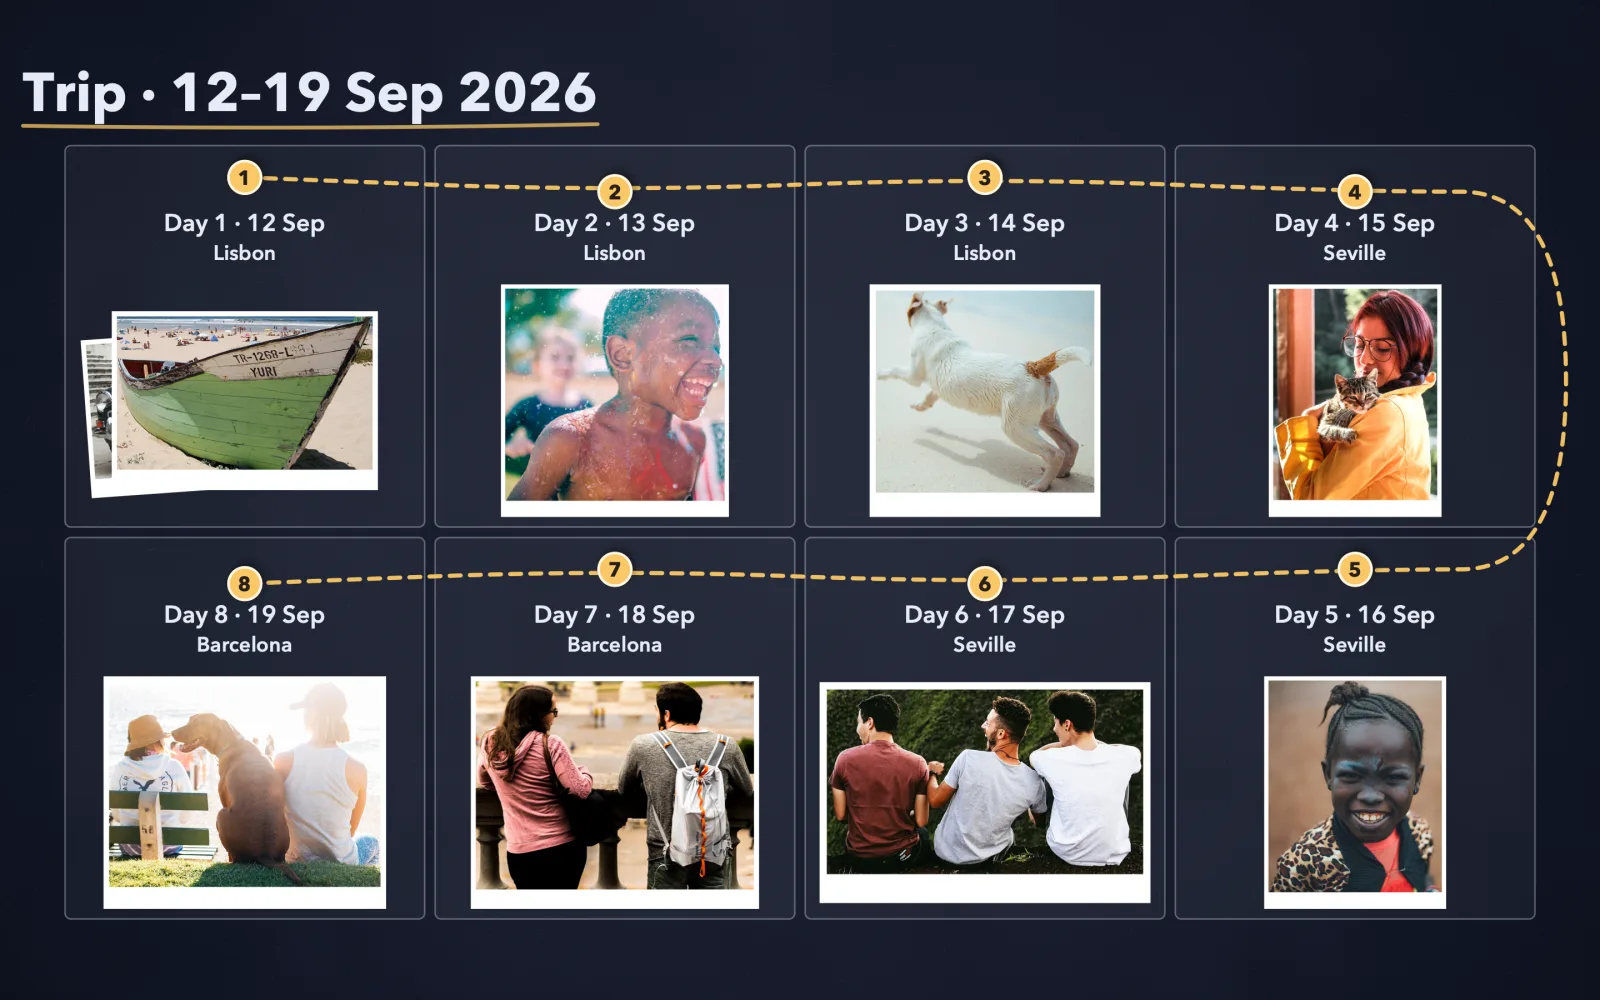
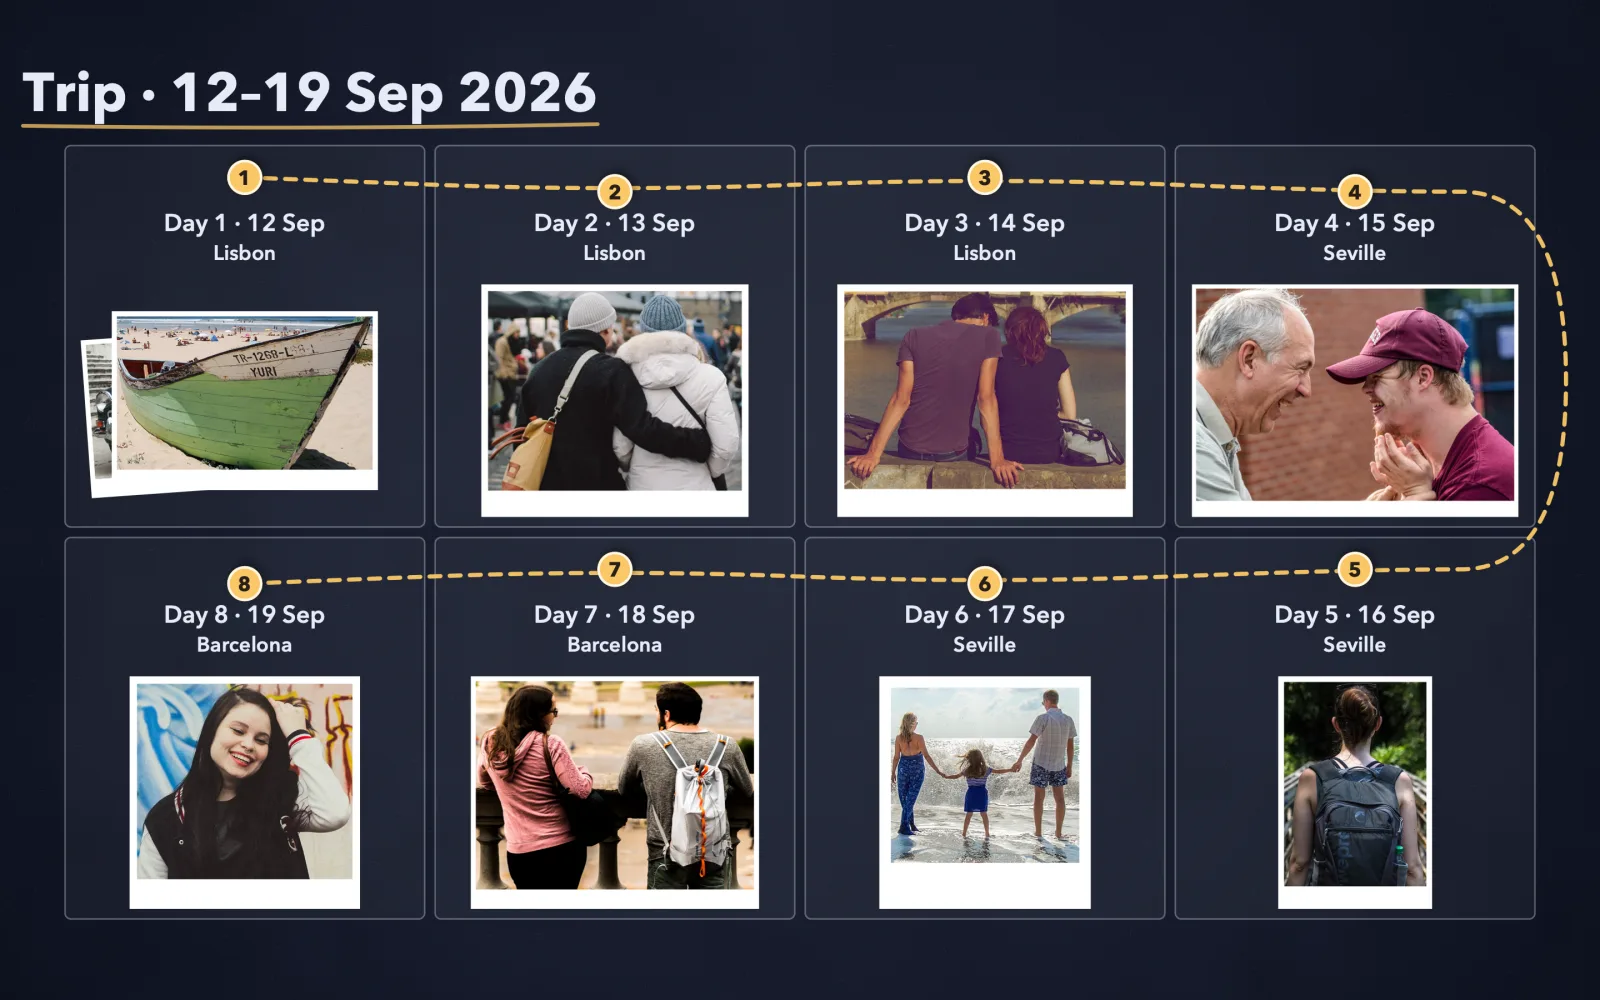
Timeline renders with new CC0 photos, none reused from the page

diff --git a/assets/home/CREDITS.md b/assets/home/CREDITS.md
@@ -21,18 +21,29 @@ Earlier stickers (lena, maya, crew, duo, cam) come from the CC0 photos "90s Chic
 
 timeline-wallcalendar.webp, timeline-clothesline.webp, timeline-filmstrip.webp and timeline-trip.webp are real Sticta Timeline wallpapers (`tack-cli timeline-marketing --set --photos`): each photo goes through the app's own cutout and styling, as cut-out stickers (wall calendar, film strip) or polaroids of the original photo (clothesline, trip). CC0 photos, Unsplash via Wikimedia Commons:
 
-- [Boy laughs and splashes (Unsplash).jpg](https://commons.wikimedia.org/wiki/File:Boy_laughs_and_splashes_(Unsplash).jpg)
-- [Cute puppy running (Unsplash).jpg](https://commons.wikimedia.org/wiki/File:Cute_puppy_running_(Unsplash).jpg)
+- [Air Happiness (Unsplash).jpg](https://commons.wikimedia.org/wiki/File:Air_Happiness_(Unsplash).jpg)
+- [Boy on skateboard graffiti (Unsplash).jpg](https://commons.wikimedia.org/wiki/File:Boy_on_skateboard_graffiti_(Unsplash).jpg)
+- [Christmas Attitude (Unsplash).jpg](https://commons.wikimedia.org/wiki/File:Christmas_Attitude_(Unsplash).jpg)
+- [Couple on bridge overlook (Unsplash).jpg](https://commons.wikimedia.org/wiki/File:Couple_on_bridge_overlook_(Unsplash).jpg)
 - [Dog in convertible sports car (Unsplash).jpg](https://commons.wikimedia.org/wiki/File:Dog_in_convertible_sports_car_(Unsplash).jpg)
-- [Dog on a beach (Unsplash).jpg](https://commons.wikimedia.org/wiki/File:Dog_on_a_beach_(Unsplash).jpg)
 - [Family at Cottesloe beach (Unsplash).jpg](https://commons.wikimedia.org/wiki/File:Family_at_Cottesloe_beach_(Unsplash).jpg)
-- [Ginger long-haired cat (Unsplash).jpg](https://commons.wikimedia.org/wiki/File:Ginger_long-haired_cat_(Unsplash).jpg)
+- [Father and Daughter (Unsplash).jpg](https://commons.wikimedia.org/wiki/File:Father_and_Daughter_(Unsplash).jpg)
 - [Happy Birthday! (Unsplash).jpg](https://commons.wikimedia.org/wiki/File:Happy_Birthday!_(Unsplash).jpg)
-- [Happy Child (Unsplash).jpg](https://commons.wikimedia.org/wiki/File:Happy_Child_(Unsplash).jpg)
-- [Laughing bride with blowing veil (Unsplash).jpg](https://commons.wikimedia.org/wiki/File:Laughing_bride_with_blowing_veil_(Unsplash).jpg)
+- [Hiker on a steel bridge (Unsplash).jpg](https://commons.wikimedia.org/wiki/File:Hiker_on_a_steel_bridge_(Unsplash).jpg)
+- [Jack Russell puppy (Unsplash).jpg](https://commons.wikimedia.org/wiki/File:Jack_Russell_puppy_(Unsplash).jpg)
+- [Laughing girl in front of graffiti (Unsplash).jpg](https://commons.wikimedia.org/wiki/File:Laughing_girl_in_front_of_graffiti_(Unsplash).jpg)
 - [Lisbon beach featuring boat (Unsplash).jpg](https://commons.wikimedia.org/wiki/File:Lisbon_beach_featuring_boat_(Unsplash).jpg)
-- [Man and woman laugh in snow (Unsplash).jpg](https://commons.wikimedia.org/wiki/File:Man_and_woman_laugh_in_snow_(Unsplash).jpg)
-- [Men laughing by green valley (Unsplash).jpg](https://commons.wikimedia.org/wiki/File:Men_laughing_by_green_valley_(Unsplash).jpg)
+- [Mom and child in a greenhouse (Unsplash).jpg](https://commons.wikimedia.org/wiki/File:Mom_and_child_in_a_greenhouse_(Unsplash).jpg)
+- [Moment of laughter (Unsplash).jpg](https://commons.wikimedia.org/wiki/File:Moment_of_laughter_(Unsplash).jpg)
+- [My Cat (Unsplash).jpg](https://commons.wikimedia.org/wiki/File:My_Cat_(Unsplash).jpg)
+- [Old woman sitting and smiling (Unsplash).jpg](https://commons.wikimedia.org/wiki/File:Old_woman_sitting_and_smiling_(Unsplash).jpg)
 - [On a balcony in Barcelona (Unsplash).jpg](https://commons.wikimedia.org/wiki/File:On_a_balcony_in_Barcelona_(Unsplash).jpg)
+- [Puppy playing with a toy (Unsplash).jpg](https://commons.wikimedia.org/wiki/File:Puppy_playing_with_a_toy_(Unsplash).jpg)
+- [Real life best friends (Unsplash).jpg](https://commons.wikimedia.org/wiki/File:Real_life_best_friends_(Unsplash).jpg)
+- [Smiling woman in blanket (Unsplash).jpg](https://commons.wikimedia.org/wiki/File:Smiling_woman_in_blanket_(Unsplash).jpg)
+- [Sparkler for you (Unsplash).jpg](https://commons.wikimedia.org/wiki/File:Sparkler_for_you_(Unsplash).jpg)
+- [Summer in Paphos (Unsplash).jpg](https://commons.wikimedia.org/wiki/File:Summer_in_Paphos_(Unsplash).jpg)
 - [Sundaycar in Lisbon (Unsplash).jpg](https://commons.wikimedia.org/wiki/File:Sundaycar_in_Lisbon_(Unsplash).jpg)
-- [Woman holding cat (Unsplash).jpg](https://commons.wikimedia.org/wiki/File:Woman_holding_cat_(Unsplash).jpg)
+- [Time together on the couch (Unsplash).jpg](https://commons.wikimedia.org/wiki/File:Time_together_on_the_couch_(Unsplash).jpg)
+- [Touring The Town (Unsplash).jpg](https://commons.wikimedia.org/wiki/File:Touring_The_Town_(Unsplash).jpg)
+- [Tree lights and woman smiling (Unsplash).jpg](https://commons.wikimedia.org/wiki/File:Tree_lights_and_woman_smiling_(Unsplash).jpg)
